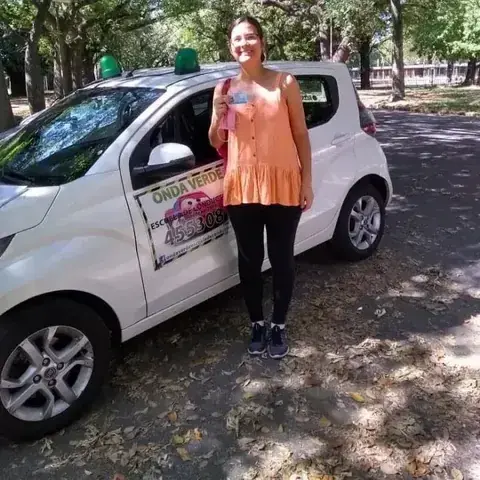
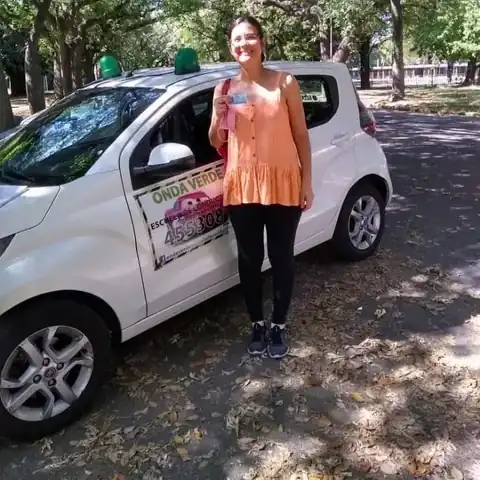
update julyCa

diff --git a/assets/css/style.css b/assets/css/style.css
@@ -80,11 +80,14 @@
   --hero-ghost-border: rgba(18, 22, 28, 0.25);
 }
 
-/* En claro, el botón primario necesita texto oscuro legible sobre el
-   verde (más oscuro que en el modo oscuro) */
+/* En claro, texto blanco sobre --green (#1f9c47) da un contraste de ~3.6:1,
+   por debajo del 4.5:1 requerido para texto normal (falla WCAG AA). Se usa
+   --green-deep como fondo en su lugar, que sí pasa (~6.2:1) manteniendo el
+   texto blanco. */
 [data-theme="light"] .btn--primary,
 [data-theme="light"] .price-card__badge,
 [data-theme="light"] .skip-link {
+  background: var(--green-deep);
   color: #ffffff;
 }
 [data-theme="light"] .btn--primary:hover { background: #1a7e38; }
@@ -576,7 +579,7 @@ ul { margin: 0; padding: 0; list-style: none; }
 }
 
 .hero__title {
-  font-size: clamp(1.7rem, 4.25vw, 2.9rem);
+  font-size: clamp(1.53rem, 3.825vw, 2.61rem);
   max-width: 18ch;
   color: var(--hero-text);
 }
@@ -614,18 +617,18 @@ ul { margin: 0; padding: 0; list-style: none; }
 /* Mobile pequeño: reduce tamaño de letra del hero ~15% */
 @media (max-width: 480px) {
   .eyebrow { font-size: 0.68rem; }
-  .hero__title { font-size: clamp(1.45rem, 3.6vw, 2.9rem); }
+  .hero__title { font-size: clamp(1.305rem, 3.24vw, 2.61rem); }
   .hero__text { font-size: 1.1rem; }
 }
 
 /* Tablets (481px–860px): título más compacto */
 @media (min-width: 481px) and (max-width: 860px) {
-  .hero__title { font-size: clamp(1.5rem, 3.8vw, 2.2rem); }
+  .hero__title { font-size: clamp(1.35rem, 3.42vw, 1.98rem); }
 }
 
 /* iPhone SE / pantallas muy angostas (~320px): proporciones más compactas */
 @media (max-width: 340px) {
-  .hero__title { font-size: 1.3rem; }
+  .hero__title { font-size: 1.17rem; }
   .hero__text { font-size: 0.95rem; }
   .eyebrow { font-size: 0.6rem; }
   .hero__actions { gap: 0.6rem; }
@@ -1046,24 +1049,6 @@ ul { margin: 0; padding: 0; list-style: none; }
   border: none;
   display: block;
 }
-.map-frame__cta {
-  width: 100%;
-  height: 240px;
-  display: flex;
-  align-items: center;
-  justify-content: center;
-  gap: 0.5rem;
-  background: var(--surface-2);
-  color: var(--text);
-  border: none;
-  cursor: pointer;
-  font-family: var(--font-display);
-  font-weight: 600;
-  font-size: 1.14rem;
-  transition: background-color 0.15s ease, color 0.15s ease;
-}
-.map-frame__cta:hover { background: var(--surface); color: var(--green); }
-
 .footer__hours {
   margin-top: 2.5rem;
   padding-top: 2rem;

diff --git a/assets/js/app.js b/assets/js/app.js
@@ -48,20 +48,6 @@ document.addEventListener('DOMContentLoaded', () => {
     link.addEventListener('click', closeMenu);
   });
 
-  /* ── Header con fondo al scrollear ───────────────────── 
-  const header = document.getElementById('site-header');
-  let scrollTicking = false;
-  const onScroll = () => {
-    if (scrollTicking) return;
-    scrollTicking = true;
-    window.requestAnimationFrame(() => {
-      header.classList.toggle('is-scrolled', window.scrollY > 12);
-      scrollTicking = false;
-    });
-  };
-  window.addEventListener('scroll', onScroll, { passive: true });
-  onScroll(); */
-
   /* ── Header con fondo al scrollear ───────────────────── */
   const header = document.getElementById('site-header');
   let scrollTicking = false;
@@ -203,21 +189,5 @@ document.addEventListener('DOMContentLoaded', () => {
       .filter(Boolean);
     carouselStates.forEach(wireCarousel); // fase 2: solo escrituras
   });
-
-  /* ── Mapa: se carga recién al hacer click, ahorra el JS de Maps ── */
-  const mapBtn = document.getElementById('mapLoadBtn');
-  if (mapBtn) {
-    mapBtn.addEventListener('click', () => {
-      const wrap = document.getElementById('mapFrame');
-      const src = wrap.getAttribute('data-map-src');
-      const iframe = document.createElement('iframe');
-      iframe.src = src;
-      iframe.title = 'Ubicación Onda Verde';
-      iframe.loading = 'lazy';
-      iframe.referrerPolicy = 'no-referrer-when-downgrade';
-      iframe.allowFullscreen = true;
-      wrap.replaceChildren(iframe);
-    }, { once: true });
-  }
 
 });
